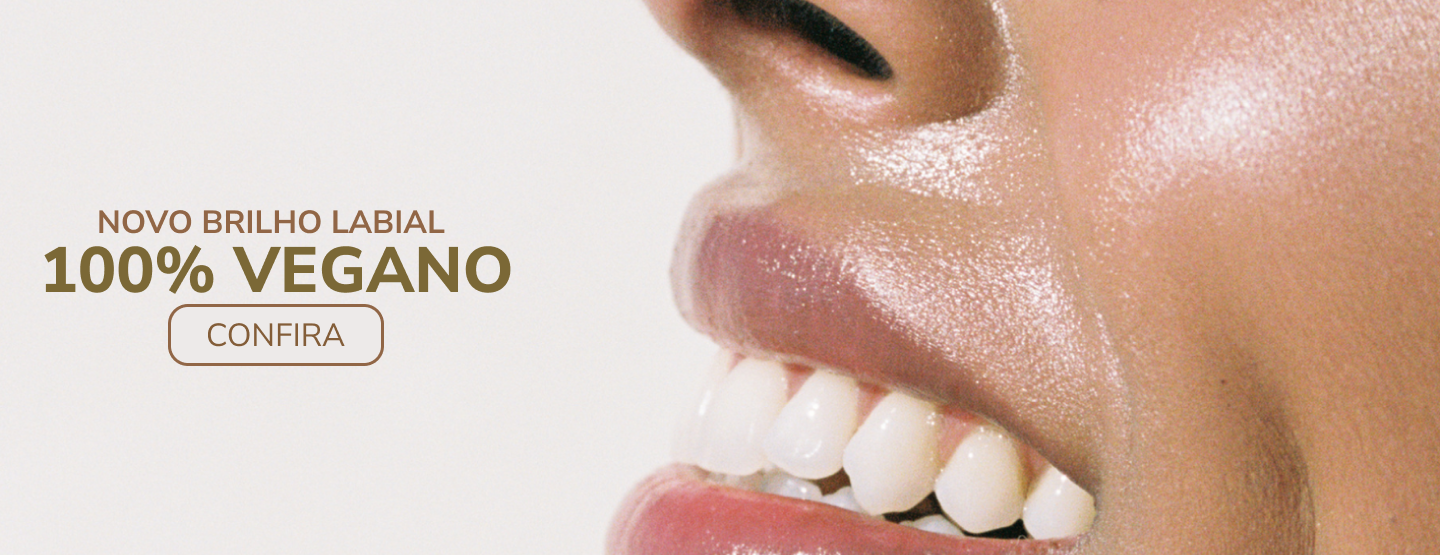
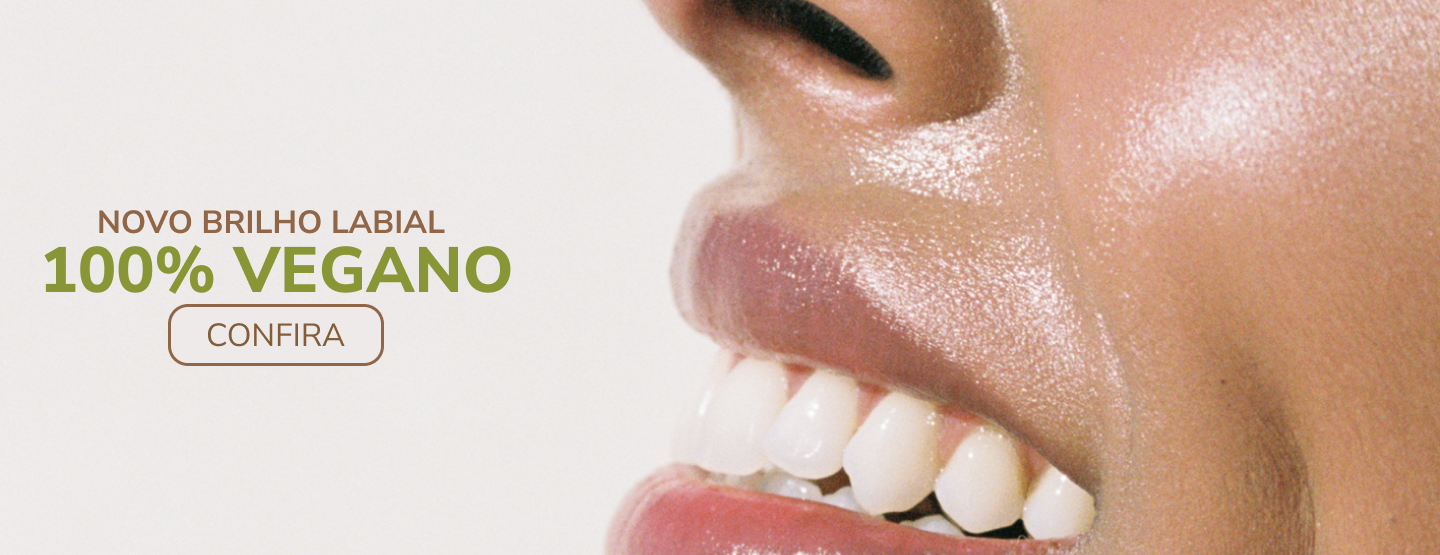
adicionando css

Changed region(s): [[0.0312, 0.4288, 0.375, 0.5514]]

diff --git a/styles/style.css b/styles/style.css
@@ -4,27 +4,29 @@
   --cor-terciaria-texto: #7b6836;
   --cor-destaque: #d98a45;
   --cor-listas: #45361d;
-  --cor-listas-hover: #876445;
+  --cor-listas-hover: #427522;
   --cor-footer: #332814;
   --cor-fundo: #f4f4f4;
-
   --fonte-primaria: "Nunito Sans", sans-serif;
 }
 
 * {
   margin: 0;
   padding: 0;
-  background-color: var(--cor-fundo);
 }
 
 body {
   font-family: var(--fonte-primaria);
 }
 
+.cabecalho{
+  background-color: var(--cor-fundo);
+}
+
 .cabecalho__container {
   display: flex;
   justify-content: space-between;
-  margin: 1.5em 2em 1em;
+  padding: 1.5em 2em 1em;
   align-items: center;
 }
 
@@ -33,18 +35,20 @@ body {
   height: 34px;
 }
 
-hr{
-    border: none;
-    border-top: 1px solid #DDDDDD;
-    margin: 10px 0;
+hr {
+  border: none;
+  border-top: 1px solid #DDDDDD;
+  padding: 10px 0;
 }
+
 .cabecalho__container__itens {
   display: flex;
   justify-content: space-around;
   text-transform: uppercase;
   list-style: none;
-  margin: 1em;
+  padding: 1em;
 }
+
 .cabecalho__container__itens a {
   color: var(--cor-listas);
   text-decoration: none;
@@ -54,21 +58,107 @@ hr{
 
 .cabecalho__container__itens a:hover {
   color: var(--cor-listas-hover);
-  font-size: 18px;
+}
+
+.apresentacao__container__banners {
+  background-color: #EDEAE7;
 }
 
 .banner1 {
-  width: 100%;
+  width: 70%;
   height: auto;
-  max-width: 100%;
+  max-width: 70%;
   display: block;
-  position: relative;
   cursor: pointer;
+  margin-left: auto;
 }
 
 .banner2 {
+  width: 70%;
+  height: auto;
+  max-width: 70%;
+  display: block;
+  margin: 0 auto;
+}
+
+.apresentacao__container__carrousel__produtos{
+  background:  linear-gradient(180deg, #EDEAE7 40.1%, rgba(212, 161, 116, 0.45) 85.41%, rgba(212, 161, 116, 0.45) 85.42%);
+  padding-top: 2em;
+}
+
+.titulo__produtos {
+  color: #835D38;
+  font-weight: 200;
+  text-align: center;
+  text-transform: uppercase;
+  font-size: 27px;
+
+}
+
+.lista__produtos{
+  display: flex;
+  justify-content: space-evenly;
+  padding: 3em 2em 1em;
   width: 100%;
   height: auto;
+}
+
+.lista__produtos__itens{
+  position: relative;
+  display: flex;
+  flex-direction: column;
+  align-items: center;
+  padding: 1.5em;
+}
+
+.lista__produtos__itens img {
   max-width: 100%;
-  display: block;
+  height: auto;
+  padding-bottom: 1em;
+}
+
+.botao-preco{
+  position: absolute;
+  width: 73px;
+  height: 25px;
+  left: 50%;
+  transform: translateX(-50%);
+  bottom: 20px;
+  background: #A63E37;
+  border-radius: 20px;
+  text-align: center;
+  font-size: 12px;
+  font-weight: 400;
+  color: #FBFBFB;
+  text-decoration: none;
+  display: flex;
+  justify-content: center;
+  align-items: center;
+}
+
+.rodape__container{
+  background: linear-gradient(180deg, rgba(212, 161, 116, 0.31) 0%, #D4A174 100%);
+}
+
+.rodape__lista{
+  display: flex;
+  justify-content: space-evenly;
+  text-transform: uppercase;
+  padding: 3em;
+  font-size: 16px;
+}
+
+.rodape__lista a{
+  color: #45361D;
+  text-decoration: none;
+}
+
+.rodape__lista a:hover{
+  color: #655539;
+}
+
+.rodape__container__texto{
+  text-align: center;
+  color: #45361D;
+  padding: 1em;
 }

diff --git a/index.html b/index.html
@@ -42,14 +42,44 @@
       <div class="apresentacao__container__carrousel__produtos">
         <h2 class="titulo__produtos">Confira nossos produtos</h2>
         <ul class="lista__produtos">
-          <a href="#"><img src="img/MAKE 01.png" alt="Base" /></a>
-          <a href="#"><img src="img/MAKE 02.png" alt="Batom líquido" /></a>
-          <a href="#"><img src="img/MAKE 03.png" alt="Blush" /></a>
-          <a href="#"><img src="img/MAKE 04.png" alt="Contorno em barra" /></a>
+          <li class="lista__produtos__itens">
+            <a href="#">
+              <img src="img/MAKE 01.png" alt="Base">
+              <span class="imagem-hover"></span>
+            </a>
+            <a href="#" class="botao-preco">R$39,90</a>
+          </li>
+          <li class="lista__produtos__itens">
+            <a href="#">
+              <img src="img/MAKE 02.png" alt="Batom líquido">
+              <span class="imagem-hover"></span>
+            </a>
+            <a href="#" class="botao-preco">R$26,99</a>
+          </li>
+          <li class="lista__produtos__itens">
+            <a href="#">
+              <img src="img/MAKE 03.png" alt="Blush">
+              <span class="imagem-hover"></span>
+            </a>
+            <a href="#" class="botao-preco">R$30,00</a>
+          </li>
+          <li class="lista__produtos__itens">
+            <a href="#">
+              <img src="img/MAKE 04.png" alt="Contorno em barra">
+              <span class="imagem-hover"></span>
+            </a>
+            <a href="#" class="botao-preco">R$45,90</a>
+          </li>
         </ul>
-      </div>
+      </div>      
     </main>
     <footer class="rodape__container">
+
+      <div class="rodape__redes">
+        <img src="img/facebook.png">
+        <img src="img/instagram.png">
+        <img src="img/tiktok.png">
+      </div>
       <ul class="rodape__lista">
         <a href="#">Termos e condições</a>
         <a href="#">Ajuda</a>
